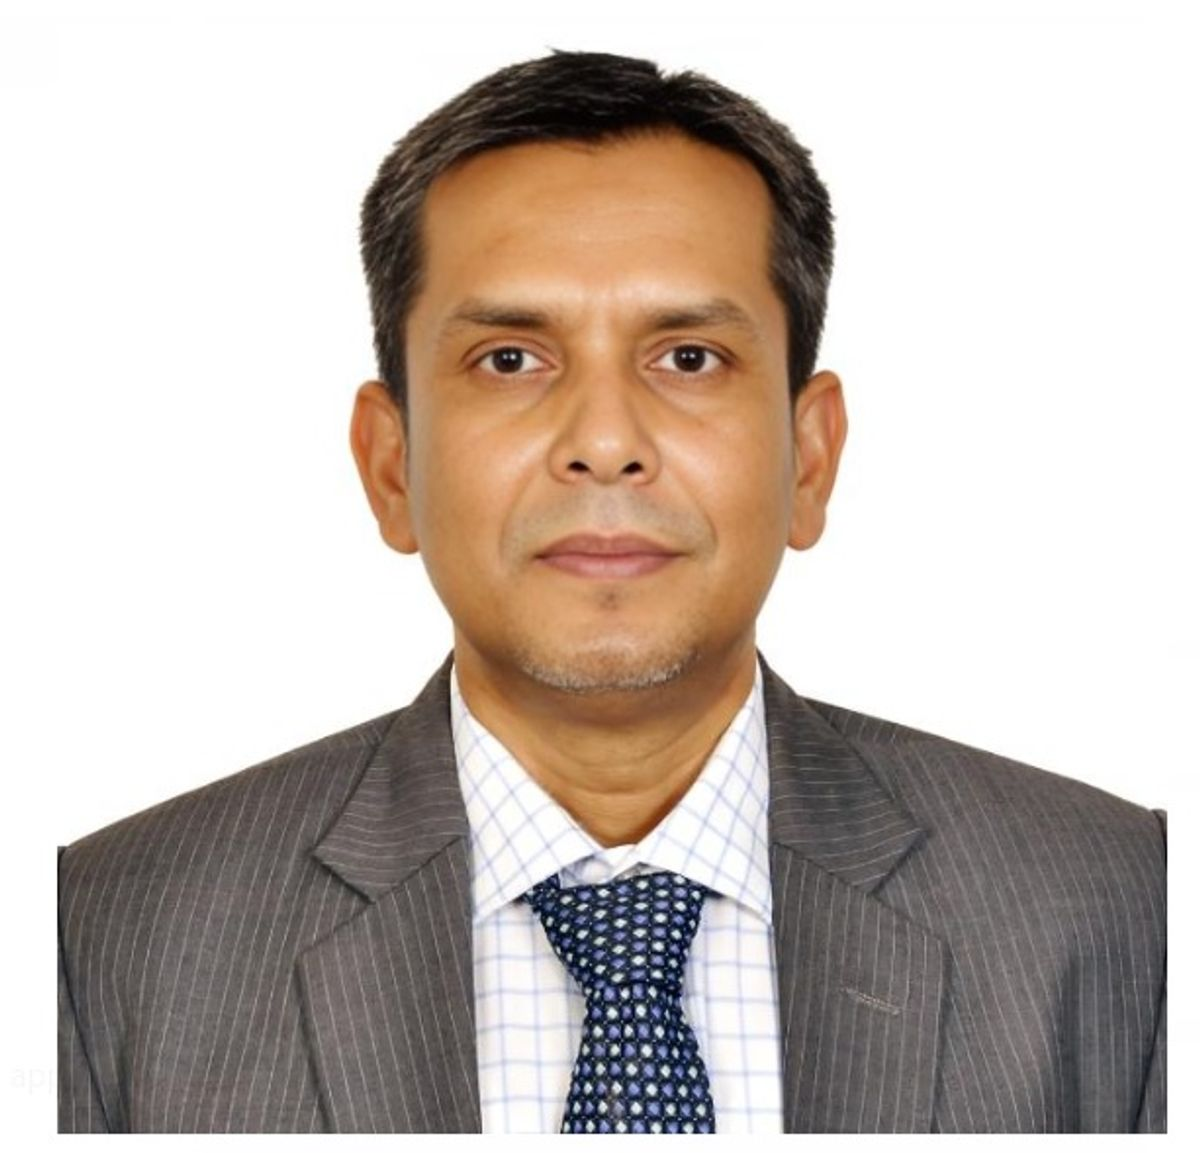
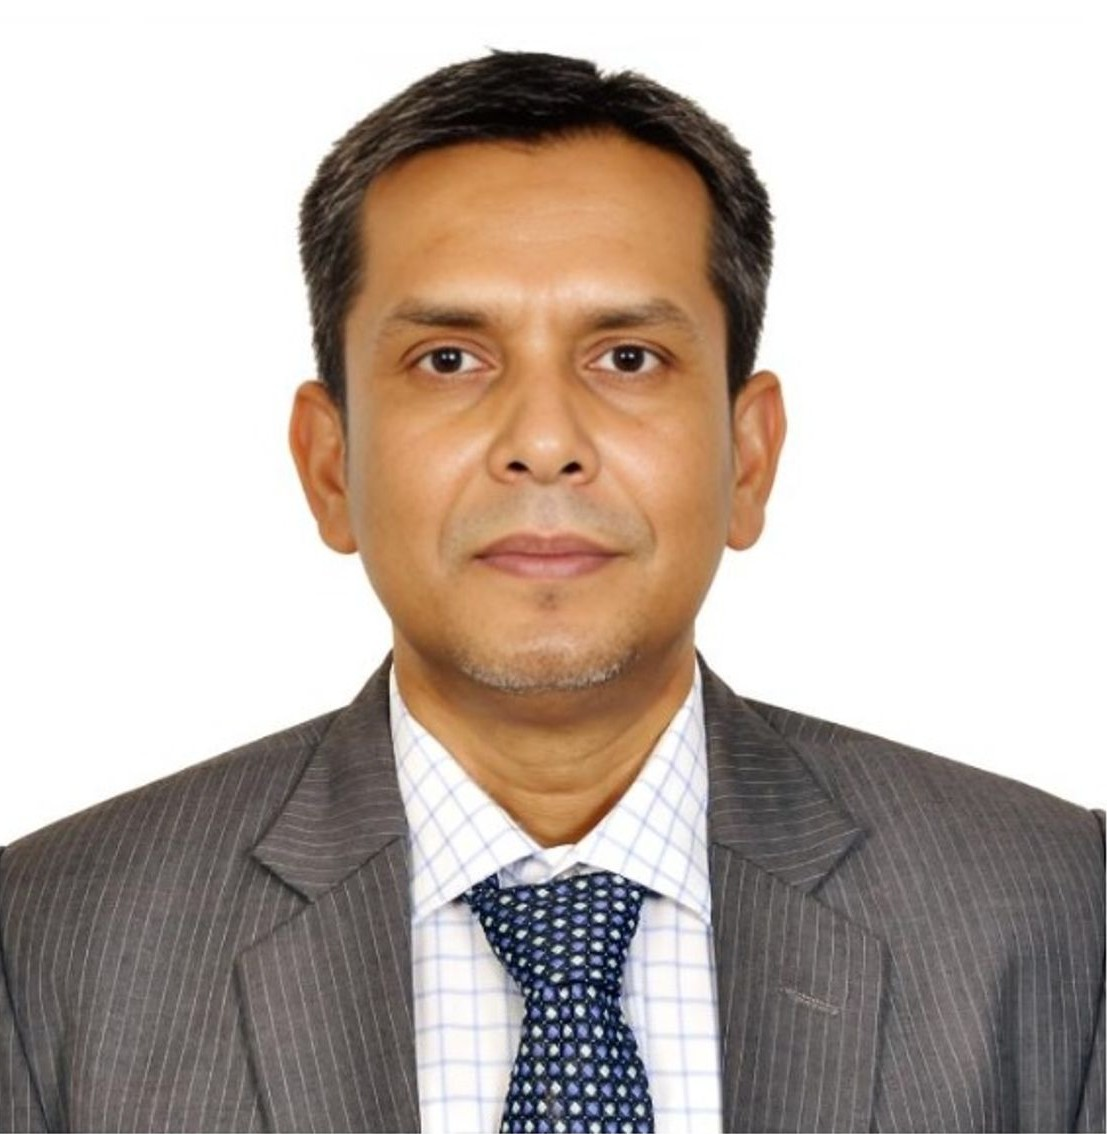
message of vc added

diff --git a/src/pages/MessageOfVc/MessageOfVc.jsx b/src/pages/MessageOfVc/MessageOfVc.jsx
@@ -1,0 +1,38 @@
+import React from 'react';
+
+const MessageOfVc = () => {
+    return (
+        <div className='bg-[#98002E] py-20 mt-20'>
+            <div className='max-w-[1250px] mx-auto flex justify-between items-center gap-4'>
+                <div className='w-1/2'>
+                    <img src="/src/assets/vc3.jpg" alt="" />
+                    <div className='text-center text-white'>
+                        Professor Dr. Md. Abdul Mazid<br/>
+                        Vice Chancellor<br/>
+                        Jashore University of Science and Technology
+                        Jashore, Bangladesh
+                    </div>
+                </div>
+                {/* <div>
+                    <img className='w-64 mt-[-200px] ml-[100px] align-top' src="/../src/assets/quote-open-yellowOL.svg" alt="" />
+                </div> */}
+                <div className='p-10 bg-white rounded-lg'>
+                    <img className='w-20' src="/../src/assets/quote-open-yellowOL.svg" alt="" />
+                    {/* <h2 className='font-sans text-2xl font-bold'>Message from the Vice-Chancellor</h2> */}
+                    <p className='py-2 text-xl opacity-80'>It is inspiring to see our students use this platform to not
+                        only sharpen their communication and reasoning skills but also to address real-world issues with
+                        creativity and confidence. The club's remarkable achievements and vibrant community reflect the
+                        dedication and talent of its members. My heartfelt best wishes to
+                        all its members and their endeavors.</p>
+                    <h2 className='font-sans text-lg font-semibold leading-6 text-right'>- Professor Dr. Md. Abdul Mazid<br/>
+                        Vice Chancellor<br/>
+                        Jashore University of Science and Technology
+                        Jashore, Bangladesh</h2>
+                    <img className='items-end w-20' src="/src/assets/quote-close-pink.svg" alt="" />
+                </div>
+            </div>
+        </div>
+    );
+};
+
+export default MessageOfVc;

diff --git a/src/pages/Home/Home/Home.jsx b/src/pages/Home/Home/Home.jsx
@@ -1,3 +1,4 @@
+import MessageOfVc from "../../MessageOfVc/MessageOfVc";
 import OurAchievement from "../../OurAchievement/OurAchievement";
 import Banner from "../Banner/Banner";
 import ThinkBigSection from "../ThinkBigSection/ThinkBigSection";
@@ -10,6 +11,7 @@ const Home = () => {
             <ThinkBigSection />
             <WhatWeProvide />
             <OurAchievement />
+            <MessageOfVc />
         </div>
     );
 };
